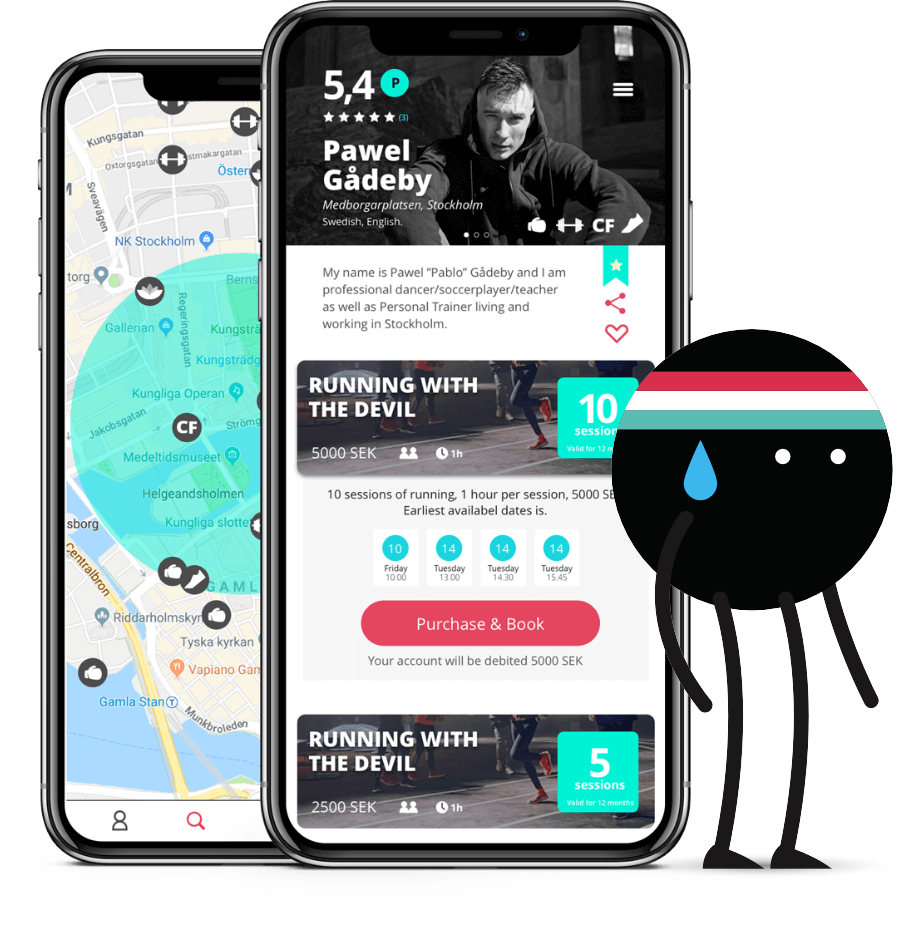
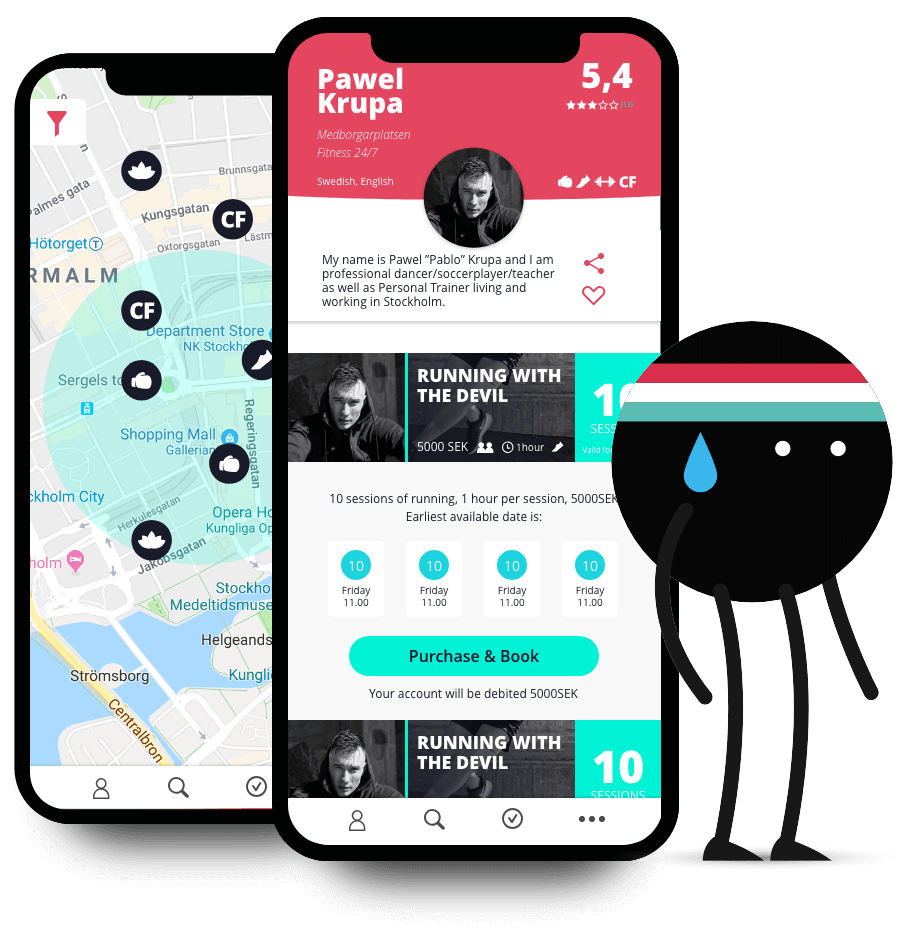
Update phones image and fix text margin

diff --git a/src/ui/components/HomeBody/HomeBody.css b/src/ui/components/HomeBody/HomeBody.css
@@ -37,6 +37,10 @@
       padding: 4rem 0 4rem;
     }
 
+.body-container.mobile h2 {
+      margin: 0 0.5rem;
+    }
+
 .body-container img {
     object-fit: contain;
     max-width: 80%;
